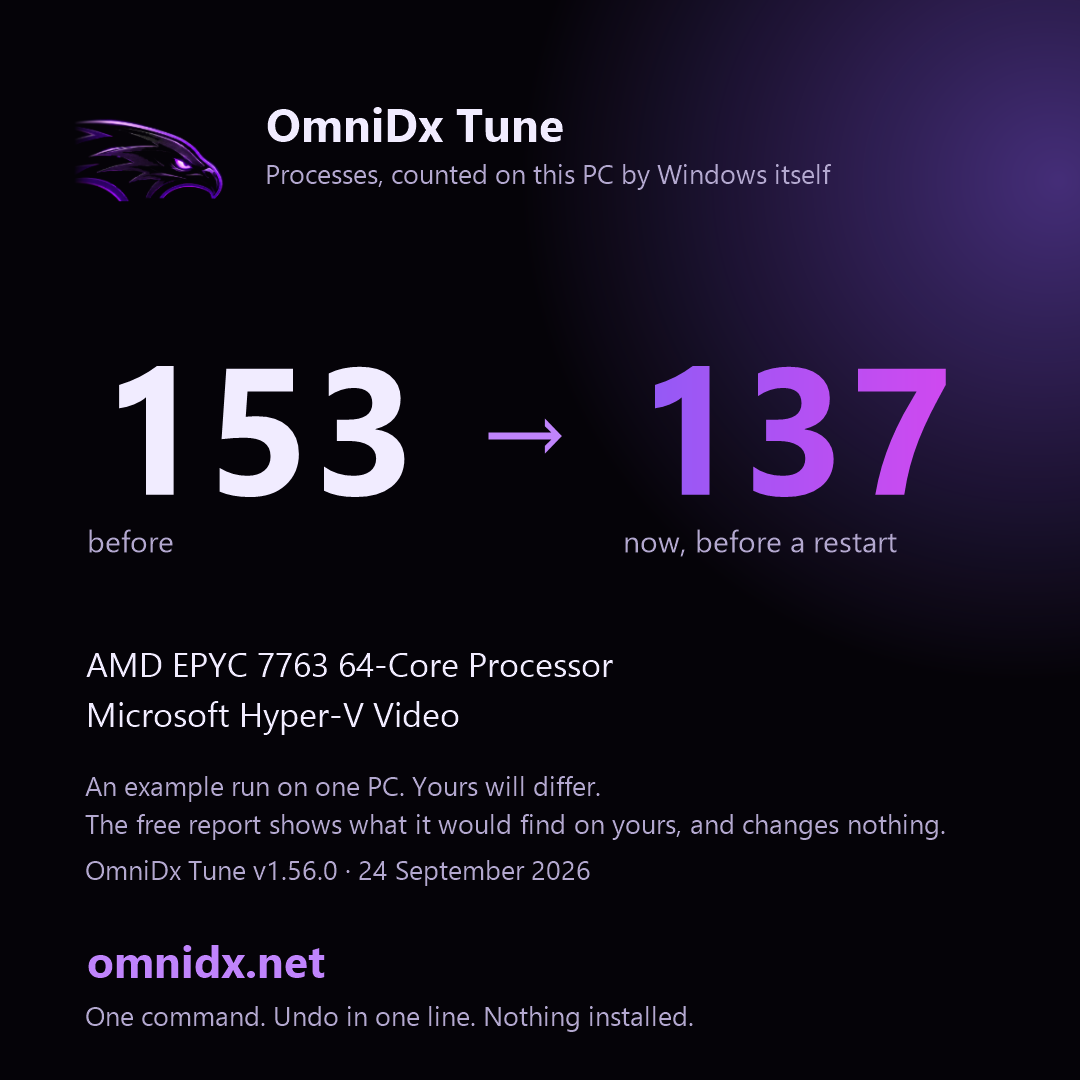
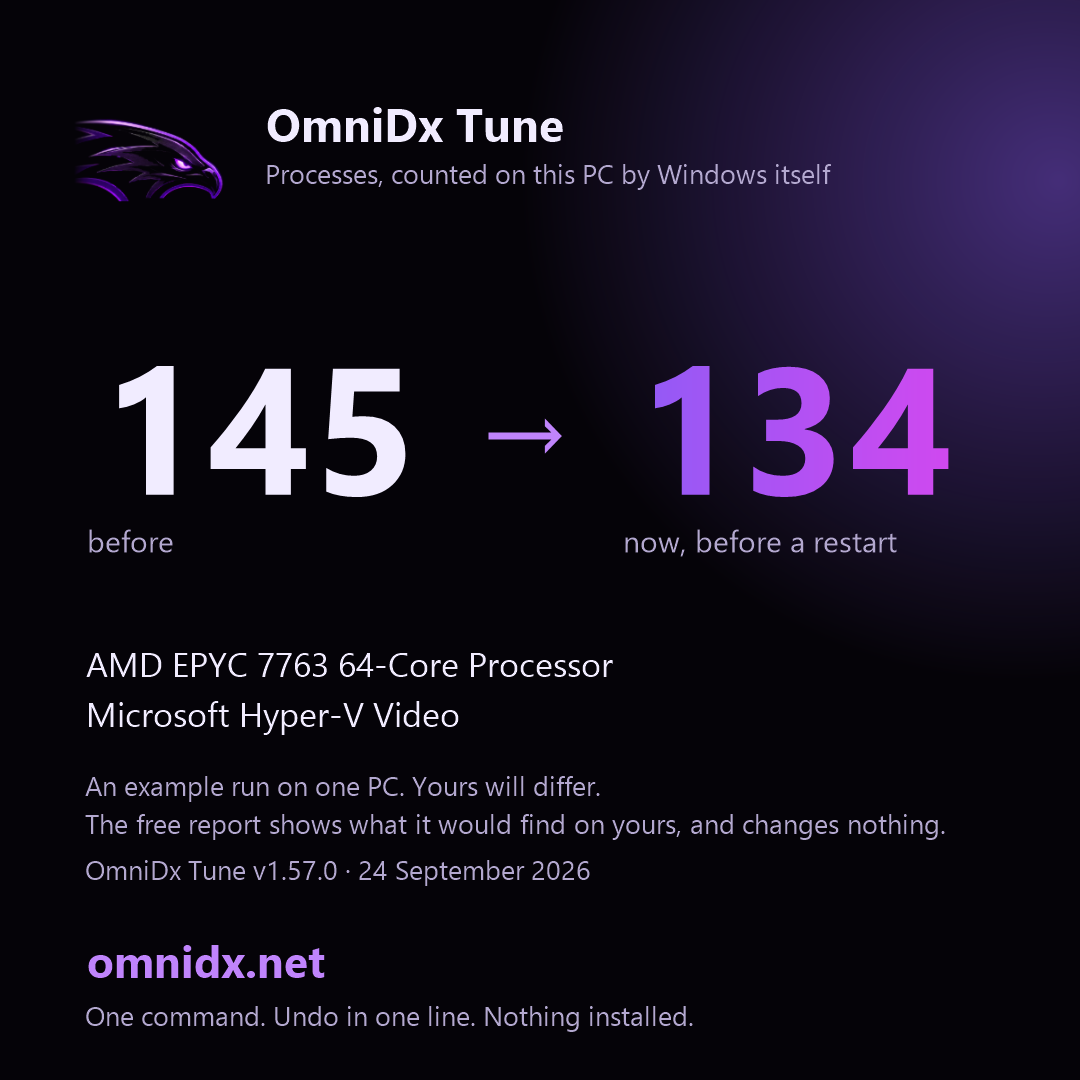
Windows check: the app window, the numbers, the log, and the script this run verified

Changed region(s): [[0.1833, 0.3361, 0.3972, 0.4583], [0.7944, 0.3361, 0.8861, 0.4583], [0.275, 0.7944, 0.3056, 0.825]]

diff --git a/studio/assets/ci-report.html b/studio/assets/ci-report.html
@@ -1,5 +1,5 @@
 <!doctype html><html lang="en"><head><meta charset="utf-8"><meta name="viewport" content="width=device-width,initial-scale=1">
-<title>OmniDx Tune report - 2026-09-24_08-35-32</title>
+<title>OmniDx Tune report - 2026-09-24_08-40-20</title>
 <style>
 body{margin:0;background:#050308;color:#f1ecff;font:15px/1.6 -apple-system,'Segoe UI',Roboto,system-ui,sans-serif}
 main{max-width:860px;margin:0 auto;padding:36px 20px 80px}
@@ -17,101 +17,96 @@ details{margin:10px 0;background:#0e0a17;border:1px solid #2a1f45;border-radius:
 details pre{font:12.5px/1.5 ui-monospace,Consolas,monospace;color:#b3a8cf;overflow:auto;max-height:420px;margin:10px 0 4px}
 .bios ul{list-style:none;padding-left:2px}.bios li{margin:8px 0;color:#f1ecff}.bios{background:#0e0a17;border:1px solid #2a1f45;border-radius:14px;padding:6px 18px}
 </style></head><body><main>
-<h1><img src="https://omnidx.net/studio/assets/icons/icon-192.png" alt="" width="44" height="44" style="vertical-align:middle;margin-right:10px" onerror="this.remove()">OmniDx Tune <span class="muted" style="font-size:16px">v1.56.0</span></h1>
-<p class="sub">Thursday, September 24, 2026 8:36 AM &middot; AMD EPYC 7763 64-Core Processor &middot; Microsoft Hyper-V Video &middot; 16 GB &middot; Microsoft Corporation Virtual Machine</p>
-<div class="big"><div><b>153</b><span>processes before</span></div><div><b>137</b><span>now, before a restart</span></div><div><b>~70</b><span>target for this PC after a restart</span></div></div>
+<h1><img src="https://omnidx.net/studio/assets/icons/icon-192.png" alt="" width="44" height="44" style="vertical-align:middle;margin-right:10px" onerror="this.remove()">OmniDx Tune <span class="muted" style="font-size:16px">v1.57.0</span></h1>
+<p class="sub">Thursday, September 24, 2026 8:41 AM &middot; AMD EPYC 7763 64-Core Processor &middot; Microsoft Hyper-V Video &middot; 16 GB &middot; Microsoft Corporation Virtual Machine</p>
+<div class="big"><div><b>145</b><span>processes before</span></div><div><b>134</b><span>now, before a restart</span></div><div><b>~70</b><span>target for this PC after a restart</span></div></div>
 <p class='muted'>The card, for posting (the same numbers, on one picture): <code>ci-card.png</code></p><img src='ci-card.png' alt='Before and after, on a card' style='max-width:340px;width:100%;border-radius:14px;border:1px solid #2a1f45'>
 <p class="muted">Many of the "now" processes are only waiting to be stopped. The number after a restart is the one that counts; <code>C:\OmniDx\after-restart.txt</code> gets it at your next sign-in. Kept cut: a task at each sign-in puts back what a Windows update turns on; undo removes it.</p>
 <h2>Next steps</h2><ol><li>Restart. The services told to stop are still unwinding until you do, and the after-restart count lands in C:\OmniDx\after-restart.txt at your next sign-in, with the boot time of that start next to the one from before the tune.</li><li>BIOS: items 1 to 3 (memory profile, Re-Size BAR, CSM). Ten minutes, and the memory profile alone is the biggest free gain any PC has.</li><li>GPU control panel: low latency mode, power management and V-Sync, from the list below. Two minutes.</li><li>Launchers and overlays: the list below names the one or two settings in each that matter; the overlays are the usual cause of a stutter that &quot;came from nowhere&quot;.</li><li>Any time: $env:OMNIDX_MODE=&#39;status&#39;; irm omnidx.net/go.ps1 | iex shows what is still in place; undo is one line, and it is in this report.</li></ol>
-<h2>Before and after</h2><table><tr><th></th><th>Before</th><th>Now</th></tr><tr><td>Processes</td><td>153</td><td>137</td></tr><tr><td>Threads</td><td>1562</td><td>1465</td></tr><tr><td>Handles</td><td>52454</td><td>47321</td></tr><tr><td>Memory in use</td><td>2839 MB</td><td>2932 MB</td></tr><tr><td>Idle CPU</td><td>1.6%</td><td>1.6%</td></tr><tr><td>DPC time</td><td>0%</td><td>0%</td></tr></table>
-<h2>Gone, by name</h2><p class='muted'>Running before, not running now: MoUsoCoreWorker, spoolsv, sppsvc, WMIADAP</p>
-<details><summary>Every process, before (58 names)</summary><pre>svchost                                  x84     1,299 MB
+<h2>Before and after</h2><table><tr><th></th><th>Before</th><th>Now</th></tr><tr><td>Processes</td><td>145</td><td>134</td></tr><tr><td>Threads</td><td>1470</td><td>1452</td></tr><tr><td>Handles</td><td>48868</td><td>45994</td></tr><tr><td>Memory in use</td><td>2872 MB</td><td>2935 MB</td></tr><tr><td>Idle CPU</td><td>0.5%</td><td>0.9%</td></tr><tr><td>DPC time</td><td>0%</td><td>0%</td></tr></table>
+<h2>Gone, by name</h2><p class='muted'>Running before, not running now: spoolsv</p>
+<details><summary>Every process, before (54 names)</summary><pre>svchost                                  x81     1,231 MB
 conhost                                  x4         34 MB
-taskhostw                                x3         84 MB
-WmiPrvSE                                 x3         74 MB
+taskhostw                                x3         66 MB
+WmiPrvSE                                 x3         59 MB
 csrss                                    x2         14 MB
 fontdrvhost                              x2         11 MB
 notepad                                  x2         59 MB
-RuntimeBroker                            x2         57 MB
 SMSvcHost                                x2         50 MB
-AzureArcSysTray                          x1         19 MB
+AzureArcSysTray                          x1         20 MB
 ctfmon                                   x1         25 MB
-dockerd                                  x1         46 MB
 dwm                                      x1         76 MB
-explorer                                 x1        158 MB
-hosted-compute-agent                     x1         22 MB
-Idle                                     x1          0 MB
-LsaIso                                   x1          4 MB
-lsass                                    x1         31 MB
-MoUsoCoreWorker                          x1         23 MB
-MpDefenderCoreService                    x1         30 MB
-mqsvc                                    x1         19 MB
-msdtc                                    x1         14 MB
-MsMpEng                                  x1        192 MB
-node                                     x1         42 MB
-OpenConsole                              x1         14 MB
-powershell                               x1        219 MB
-provjobd.exe3615467706                   x1         36 MB
-Registry                                 x1         20 MB
-Runner.Listener                          x1         71 MB
-Runner.Worker                            x1         99 MB
-SearchHost                               x1        108 MB
-Secure System                            x1         52 MB
-SecurityHealthService                    x1         12 MB
-ServiceFabricLocalClusterManager         x1         36 MB
-services                                 x1         11 MB
-ShellHost                                x1         42 MB
-sihost                                   x1         42 MB
-smartscreen                              x1         12 MB
-smss                                     x1          2 MB
-spoolsv                                  x1         22 MB
-sppsvc                                   x1         16 MB
-sqlwriter                                x1         11 MB
-sshd                                     x1          9 MB
-StartMenuExperienceHost                  x1        130 MB
-System                                   x1          0 MB
-TiWorker                                 x1         34 MB
-TrustedInstaller                         x1         10 MB
-UserOOBEBroker                           x1         11 MB
-vmcompute                                x1         10 MB
-vmms                                     x1         33 MB
-WaAppAgent                               x1         83 MB
-WaSecAgentProv                           x1          5 MB
-WindowsAzureGuestAgent                   x1         66 MB
-WindowsTerminal                          x1         85 MB
-wininit                                  x1          9 MB
-winlogon                                 x1         13 MB
-WMIADAP                                  x1         11 MB
-wslservice                               x1         28 MB</pre></details><details><summary>Every process, after (55 names)</summary><pre>svchost                                  x71     1,080 MB
-conhost                                  x4         34 MB
-taskhostw                                x3         92 MB
-WmiPrvSE                                 x3         82 MB
-csrss                                    x2         14 MB
-fontdrvhost                              x2         11 MB
-notepad                                  x2         59 MB
-RuntimeBroker                            x2         57 MB
-SMSvcHost                                x2         50 MB
-AzureArcSysTray                          x1         19 MB
-ctfmon                                   x1         25 MB
-dllhost                                  x1         13 MB
-dockerd                                  x1         46 MB
-dwm                                      x1         76 MB
-explorer                                 x1        158 MB
+explorer                                 x1        159 MB
 hosted-compute-agent                     x1         20 MB
 Idle                                     x1          0 MB
 LsaIso                                   x1          4 MB
 lsass                                    x1         31 MB
-MpDefenderCoreService                    x1         30 MB
+MpDefenderCoreService                    x1         29 MB
 mqsvc                                    x1         19 MB
 msdtc                                    x1         14 MB
-MsMpEng                                  x1        160 MB
-node                                     x1         42 MB
+MsMpEng                                  x1        159 MB
+node                                     x1         41 MB
 OpenConsole                              x1         14 MB
-powershell                               x1        245 MB
-provjobd.exe3615467706                   x1         34 MB
-Registry                                 x1         64 MB
-Runner.Listener                          x1         67 MB
-Runner.Worker                            x1         96 MB
+powershell                               x1        254 MB
+provjobd.exe1274496270                   x1         33 MB
+Registry                                 x1         43 MB
+Runner.Listener                          x1         70 MB
+Runner.Worker                            x1         97 MB
+RuntimeBroker                            x1         47 MB
+SearchHost                               x1        108 MB
+Secure System                            x1         52 MB
+SecurityHealthService                    x1         12 MB
+ServiceFabricLocalClusterManager         x1         36 MB
+services                                 x1         12 MB
+ShellHost                                x1         42 MB
+sihost                                   x1         43 MB
+smartscreen                              x1         12 MB
+smss                                     x1          2 MB
+spoolsv                                  x1         22 MB
+sqlwriter                                x1         11 MB
+sshd                                     x1          9 MB
+StartMenuExperienceHost                  x1        130 MB
+System                                   x1          0 MB
+TiWorker                                 x1         28 MB
+TrustedInstaller                         x1         10 MB
+UserOOBEBroker                           x1         11 MB
+vmcompute                                x1         11 MB
+vmms                                     x1         33 MB
+WaAppAgent                               x1         87 MB
+WaSecAgentProv                           x1          5 MB
+WindowsAzureGuestAgent                   x1         70 MB
+WindowsTerminal                          x1         85 MB
+wininit                                  x1          9 MB
+winlogon                                 x1         13 MB
+wslservice                               x1         29 MB</pre></details><details><summary>Every process, after (54 names)</summary><pre>svchost                                  x70     1,063 MB
+conhost                                  x4         34 MB
+taskhostw                                x3         66 MB
+WmiPrvSE                                 x3         66 MB
+csrss                                    x2         14 MB
+fontdrvhost                              x2         11 MB
+notepad                                  x2         59 MB
+SMSvcHost                                x2         50 MB
+AzureArcSysTray                          x1         20 MB
+ctfmon                                   x1         31 MB
+dllhost                                  x1         13 MB
+dwm                                      x1         76 MB
+explorer                                 x1        158 MB
+hosted-compute-agent                     x1         18 MB
+Idle                                     x1          0 MB
+LsaIso                                   x1          4 MB
+lsass                                    x1         31 MB
+MpDefenderCoreService                    x1         29 MB
+mqsvc                                    x1         19 MB
+msdtc                                    x1         14 MB
+MsMpEng                                  x1        114 MB
+node                                     x1         41 MB
+OpenConsole                              x1         14 MB
+powershell                               x1        238 MB
+provjobd.exe1274496270                   x1         26 MB
+Registry                                 x1         65 MB
+Runner.Listener                          x1         54 MB
+Runner.Worker                            x1         90 MB
+RuntimeBroker                            x1         47 MB
 SearchHost                               x1        109 MB
 Secure System                            x1         52 MB
 SecurityHealthService                    x1         12 MB
@@ -125,14 +120,14 @@ sqlwriter                                x1         11 MB
 sshd                                     x1          9 MB
 StartMenuExperienceHost                  x1        131 MB
 System                                   x1          0 MB
-TiWorker                                 x1         43 MB
+TiWorker                                 x1         39 MB
 TrustedInstaller                         x1         10 MB
 UserOOBEBroker                           x1         11 MB
 vmcompute                                x1         11 MB
 vmms                                     x1         33 MB
-WaAppAgent                               x1         85 MB
+WaAppAgent                               x1         87 MB
 WaSecAgentProv                           x1          5 MB
-WindowsAzureGuestAgent                   x1         66 MB
+WindowsAzureGuestAgent                   x1         70 MB
 WindowsTerminal                          x1         85 MB
 wininit                                  x1          9 MB
 winlogon                                 x1         13 MB
@@ -144,8 +139,8 @@ wslservice                               x1         29 MB</pre></details>
 <h2>Launchers, overlays and helper apps</h2><ul><li>None of the usual launchers, overlays or peripheral suites found. The same notes apply the day you install one; run the command again and they appear here.</li></ul>
 <h2>Left by other tools</h2><p class="muted">The tune changes none of these; it names them, with the way back.</p><ul><li>Nothing found: no other tool has left Defender, Windows Update, SmartScreen, User Account Control or the CPU mitigations switched off on this PC.</li></ul>
 <h2>Per game</h2><p class='muted'>Not found on this PC (the same profile applies if you install them): Fortnite, VALORANT, Counter-Strike 2, Marvel Rivals, Apex Legends, Call of Duty (Warzone / MW), Overwatch 2, Rainbow Six Siege, Rocket League, Minecraft, Roblox, League of Legends, GTA V / Online, Rust, Escape from Tarkov, PUBG, The Finals, Dota 2, Battlefield 6, Deadlock, Delta Force, ARC Raiders, Helldivers 2, Warframe, Destiny 2, Halo Infinite, Dead by Daylight, Hunt: Showdown 1896, War Thunder, World of Warcraft, Squad, Battlefield 2042, EA Sports FC 26, NBA 2K26, Palworld, Path of Exile 2, Diablo IV, Monster Hunter Wilds, Elden Ring / Nightreign, Cyberpunk 2077, Baldur&#39;s Gate 3, Star Citizen, DayZ, Arma Reforger, Hell Let Loose, Genshin Impact, Ready or Not, Final Fantasy XIV, STALKER 2, Sea of Thieves</p>
-<h2>What was done</h2><h4>Safety first</h4><div class='did'>Registry and service list backed up to C:\OmniDx\backup\2026-09-24_08-35-32</div><div class='did'>undo.ps1 written to C:\OmniDx\undo</div><h4>Startup apps</h4><div class='did'>off: AzureArcSetup</div><div class='did'>off: Service Fabric Local Cluster Manager (Startup folder)</div><h4>Services</h4><div class='did'>dmwappushservice -&gt; disabled  (telemetry push)</div><div class='did'>WerSvc -&gt; disabled  (error reporting)</div><div class='did'>wercplsupport -&gt; disabled  (error reporting)</div><div class='did'>PcaSvc -&gt; disabled  (compatibility assistant)</div><div class='did'>lfsvc -&gt; disabled  (geolocation)</div><div class='did'>RemoteRegistry -&gt; disabled  (remote registry)</div><div class='did'>WMPNetworkSvc -&gt; disabled  (media sharing)</div><div class='did'>TrkWks -&gt; disabled  (link tracking)</div><div class='did'>WalletService -&gt; disabled  (wallet)</div><div class='did'>wisvc -&gt; disabled  (insider program)</div><div class='did'>SEMgrSvc -&gt; disabled  (payments and NFC)</div><div class='did'>TapiSrv -&gt; disabled  (telephony)</div><div class='did'>SharedAccess -&gt; disabled  (internet connection sharing)</div><div class='did'>edgeupdate -&gt; manual  (Edge updater (runs on demand))</div><div class='did'>WbioSrvc -&gt; disabled  (biometrics)</div><div class='did'>SysMain already disabled; left that way</div><div class='did'>WSearch already disabled; left that way</div><div class='did'>Spooler -&gt; disabled  (print spooler)</div><div class='did'>bthserv -&gt; disabled  (bluetooth)</div><div class='did'>WlanSvc -&gt; disabled  (wi-fi)</div><div class='did'>CDPSvc -&gt; manual  (connected devices)</div><div class='did'>CDPUserSvc already disabled; left that way</div><div class='did'>OneSyncSvc already disabled; left that way</div><div class='did'>PimIndexMaintenanceSvc already disabled; left that way</div><div class='did'>UnistoreSvc already disabled; left that way</div><div class='did'>UserDataSvc already disabled; left that way</div><div class='did'>SSDPSRV already disabled; left that way</div><div class='did'>upnphost already disabled; left that way</div><div class='did'>DPS -&gt; manual  (diagnostic policy)</div><div class='did'>SCardSvr -&gt; disabled  (smart card)</div><div class='did'>ScDeviceEnum -&gt; disabled  (smart card)</div><div class='did'>CertPropSvc -&gt; disabled  (smart card)</div><div class='did'>iphlpsvc -&gt; manual  (ipv6 tunnels)</div><div class='did'>cbdhsvc -&gt; manual  (clipboard history)</div><div class='did'>WpnService -&gt; manual  (push notifications)</div><div class='did'>WpnUserService -&gt; manual  (push notifications)</div><div class='did'>SNMPTRAP -&gt; disabled  (SNMP traps)</div><div class='did'>workfolderssvc -&gt; disabled  (Work Folders sync)</div><h4>Scheduled tasks</h4><div class='did'>PcaPatchDbTask</div><div class='did'>CreateObjectTask</div><div class='did'>Device</div><div class='did'>Device User</div><div class='did'>LoginCheck</div><div class='did'>WindowsActionDialog</div><div class='did'>OobeDiscovery</div><div class='did'>Diagnostics</div><div class='did'>UsageDataFlushing</div><div class='did'>UsageDataReporting</div><div class='did'>Registration</div><div class='did'>IndexerAutomaticMaintenance</div><div class='did'>Storage Tiers Management Initialization</div><div class='did'>UPnPHostConfig</div><div class='did'>ResolutionHost</div><div class='did'>UpdateLibrary</div><div class='did'>Work Folders Logon Synchronization</div><div class='did'>Work Folders Maintenance Work</div><h4>Preinstalled apps</h4><div class='did'>Microsoft.WindowsFeedbackHub</div><h4>Debloat</h4><div class='did'>removed Steps Recorder (screenshots every click, retired by Microsoft)</div><div class='did'>removed the 2009 Windows Media Player (the Store one stays)</div><div class='did'>removed Math Input Panel</div><div class='did'>removed Internet Explorer 11</div><div class='did'>off: Work Folders (corporate sync)</div><div class='did'>Edge: shopping assistant, recommendations, Spotlight, feedback prompts and reporting off</div><div class='did'>Kept gone: consumer features, suggested apps, account nags and the &#39;finish setting up&#39; screen are off by policy</div><h4>Telemetry, background activity, the shell</h4><div class='did'>Telemetry, the advertising id, activity history, suggestions, Bing in Start, Recall and Edge&#39;s reporting off; background apps off; widgets, news, Copilot and Cortana off; Game DVR off, Game Mode on; the classic right-click menu on 11</div><h4>System tuning</h4><div class='did'>NTFS last-access stamps off</div><div class='did'>NTFS allowed more memory for its cache</div><div class='did'>Defender&#39;s scheduled scans already capped at 5% of the CPU, lower than the tune&#39;s 25%: left as it is</div><h4>The OmniDx power plan</h4><div class='did'>2 plan setting(s) this PC does not have were skipped.</div><div class='did'>OmniDx plan created and active: CPU 100/100, boost aggressive, energy preference on performance, no core parking, no throttle states on a desktop, PCIe, USB and Wi-Fi power saving off, no sleep on mains.</div><h4>Network</h4><div class='did'>TCP: autotuning normal, ECN and timestamps off, receive-side scaling on, segment coalescing off, CTCP.</div><div class='did'>Ethernet 3: Nagle off, power saving off</div><h4>Discord, Spotify, browsers</h4><div class='did'>Chrome: no background mode, hardware acceleration on</div><div class='did'>Edge: no startup boost, no background mode, hardware acceleration on</div><h4>Game profiles</h4><div class='did'>No listed game found on the usual drives; the CPU-priority profiles are in place for when one is installed.</div><h4>Cleanup</h4><div class='did'>Temp files, the Windows Update download cache and the peer-to-peer update cache cleared: about 374 MB back.</div><h4>Keeping it cut</h4><div class='did'>Task &#39;OmniDx keep&#39; runs three minutes after sign-in, puts back whatever an update turned on, and notes that start&#39;s boot time. Log: C:\OmniDx\keep-log.txt. Undo removes it.</div>
-<h2>Undo</h2><p>Administrator PowerShell: <code>powershell -ExecutionPolicy Bypass -File C:\OmniDx\undo\undo.ps1</code><br>No restore point was made on this run (see the warnings); the undo script is the way back.<br>Changes recorded in <code>C:\OmniDx\undo\changes-2026-09-24_08-35-32.json</code>.</p>
+<h2>What was done</h2><h4>Safety first</h4><div class='did'>Registry and service list backed up to C:\OmniDx\backup\2026-09-24_08-40-20</div><div class='did'>undo.ps1 written to C:\OmniDx\undo</div><h4>Startup apps</h4><div class='did'>off: AzureArcSetup</div><div class='did'>off: Service Fabric Local Cluster Manager (Startup folder)</div><h4>Services</h4><div class='did'>dmwappushservice -&gt; disabled  (telemetry push)</div><div class='did'>WerSvc -&gt; disabled  (error reporting)</div><div class='did'>wercplsupport -&gt; disabled  (error reporting)</div><div class='did'>PcaSvc -&gt; disabled  (compatibility assistant)</div><div class='did'>lfsvc -&gt; disabled  (geolocation)</div><div class='did'>RemoteRegistry -&gt; disabled  (remote registry)</div><div class='did'>WMPNetworkSvc -&gt; disabled  (media sharing)</div><div class='did'>TrkWks -&gt; disabled  (link tracking)</div><div class='did'>WalletService -&gt; disabled  (wallet)</div><div class='did'>wisvc -&gt; disabled  (insider program)</div><div class='did'>SEMgrSvc -&gt; disabled  (payments and NFC)</div><div class='did'>TapiSrv -&gt; disabled  (telephony)</div><div class='did'>SharedAccess -&gt; disabled  (internet connection sharing)</div><div class='did'>edgeupdate -&gt; manual  (Edge updater (runs on demand))</div><div class='did'>WbioSrvc -&gt; disabled  (biometrics)</div><div class='did'>SysMain already disabled; left that way</div><div class='did'>WSearch already disabled; left that way</div><div class='did'>Spooler -&gt; disabled  (print spooler)</div><div class='did'>bthserv -&gt; disabled  (bluetooth)</div><div class='did'>WlanSvc -&gt; disabled  (wi-fi)</div><div class='did'>CDPSvc -&gt; manual  (connected devices)</div><div class='did'>CDPUserSvc already disabled; left that way</div><div class='did'>OneSyncSvc already disabled; left that way</div><div class='did'>PimIndexMaintenanceSvc already disabled; left that way</div><div class='did'>UnistoreSvc already disabled; left that way</div><div class='did'>UserDataSvc already disabled; left that way</div><div class='did'>SSDPSRV already disabled; left that way</div><div class='did'>upnphost already disabled; left that way</div><div class='did'>DPS -&gt; manual  (diagnostic policy)</div><div class='did'>SCardSvr -&gt; disabled  (smart card)</div><div class='did'>ScDeviceEnum -&gt; disabled  (smart card)</div><div class='did'>CertPropSvc -&gt; disabled  (smart card)</div><div class='did'>iphlpsvc -&gt; manual  (ipv6 tunnels)</div><div class='did'>cbdhsvc -&gt; manual  (clipboard history)</div><div class='did'>WpnService -&gt; manual  (push notifications)</div><div class='did'>WpnUserService -&gt; manual  (push notifications)</div><div class='did'>SNMPTRAP -&gt; disabled  (SNMP traps)</div><div class='did'>workfolderssvc -&gt; disabled  (Work Folders sync)</div><h4>Scheduled tasks</h4><div class='did'>PcaPatchDbTask</div><div class='did'>CreateObjectTask</div><div class='did'>Device</div><div class='did'>Device User</div><div class='did'>LoginCheck</div><div class='did'>WindowsActionDialog</div><div class='did'>OobeDiscovery</div><div class='did'>Diagnostics</div><div class='did'>UsageDataFlushing</div><div class='did'>UsageDataReporting</div><div class='did'>Registration</div><div class='did'>IndexerAutomaticMaintenance</div><div class='did'>Storage Tiers Management Initialization</div><div class='did'>UPnPHostConfig</div><div class='did'>ResolutionHost</div><div class='did'>UpdateLibrary</div><div class='did'>Work Folders Logon Synchronization</div><div class='did'>Work Folders Maintenance Work</div><h4>Preinstalled apps</h4><div class='did'>Microsoft.WindowsFeedbackHub</div><h4>Debloat</h4><div class='did'>removed Steps Recorder (screenshots every click, retired by Microsoft)</div><div class='did'>removed the 2009 Windows Media Player (the Store one stays)</div><div class='did'>removed Math Input Panel</div><div class='did'>removed Internet Explorer 11</div><div class='did'>off: Work Folders (corporate sync)</div><div class='did'>Edge: shopping assistant, recommendations, Spotlight, feedback prompts and reporting off</div><div class='did'>Kept gone: consumer features, suggested apps, account nags and the &#39;finish setting up&#39; screen are off by policy</div><h4>Telemetry, background activity, the shell</h4><div class='did'>Telemetry, the advertising id, activity history, suggestions, Bing in Start, Recall and Edge&#39;s reporting off; background apps off; widgets, news, Copilot and Cortana off; Game DVR off, Game Mode on; the classic right-click menu on 11</div><h4>System tuning</h4><div class='did'>NTFS last-access stamps off</div><div class='did'>NTFS allowed more memory for its cache</div><div class='did'>Defender&#39;s scheduled scans already capped at 5% of the CPU, lower than the tune&#39;s 25%: left as it is</div><h4>The OmniDx power plan</h4><div class='did'>2 plan setting(s) this PC does not have were skipped.</div><div class='did'>OmniDx plan created and active: CPU 100/100, boost aggressive, energy preference on performance, no core parking, no throttle states on a desktop, PCIe, USB and Wi-Fi power saving off, no sleep on mains.</div><h4>Network</h4><div class='did'>TCP: autotuning normal, ECN and timestamps off, receive-side scaling on, segment coalescing off, CTCP.</div><div class='did'>Ethernet 4: Interrupt Moderation off</div><div class='did'>Ethernet 4: Nagle off, power saving off</div><div class='did'>Ethernet 3: Nagle off, power saving off</div><h4>Discord, Spotify, browsers</h4><div class='did'>Chrome: no background mode, hardware acceleration on</div><div class='did'>Edge: no startup boost, no background mode, hardware acceleration on</div><h4>Game profiles</h4><div class='did'>No listed game found on the usual drives; the CPU-priority profiles are in place for when one is installed.</div><h4>Cleanup</h4><div class='did'>Temp files, the Windows Update download cache and the peer-to-peer update cache cleared: about 374 MB back.</div><h4>Keeping it cut</h4><div class='did'>Task &#39;OmniDx keep&#39; runs three minutes after sign-in, puts back whatever an update turned on, notes that start&#39;s boot time and writes card-after-restart.png with that start&#39;s count. Log: C:\OmniDx\keep-log.txt. Undo removes it.</div>
+<h2>Undo</h2><p>Administrator PowerShell: <code>powershell -ExecutionPolicy Bypass -File C:\OmniDx\undo\undo.ps1</code><br>No restore point was made on this run (see the warnings); the undo script is the way back.<br>Changes recorded in <code>C:\OmniDx\undo\changes-2026-09-24_08-40-20.json</code>.</p>
 <h2>Status, any time</h2><p>What is still in place, what an update put back, the keep task and the after-restart count: <code>$env:OMNIDX_MODE='status'; irm omnidx.net/go.ps1 | iex</code><br><span class="muted">README.txt in C:\OmniDx says what each file there is.</span></p>
 <p class="muted" style="margin-top:40px">omnidx.net &middot; one payment, one PC, undo in one line.</p>
 </main></body></html>
